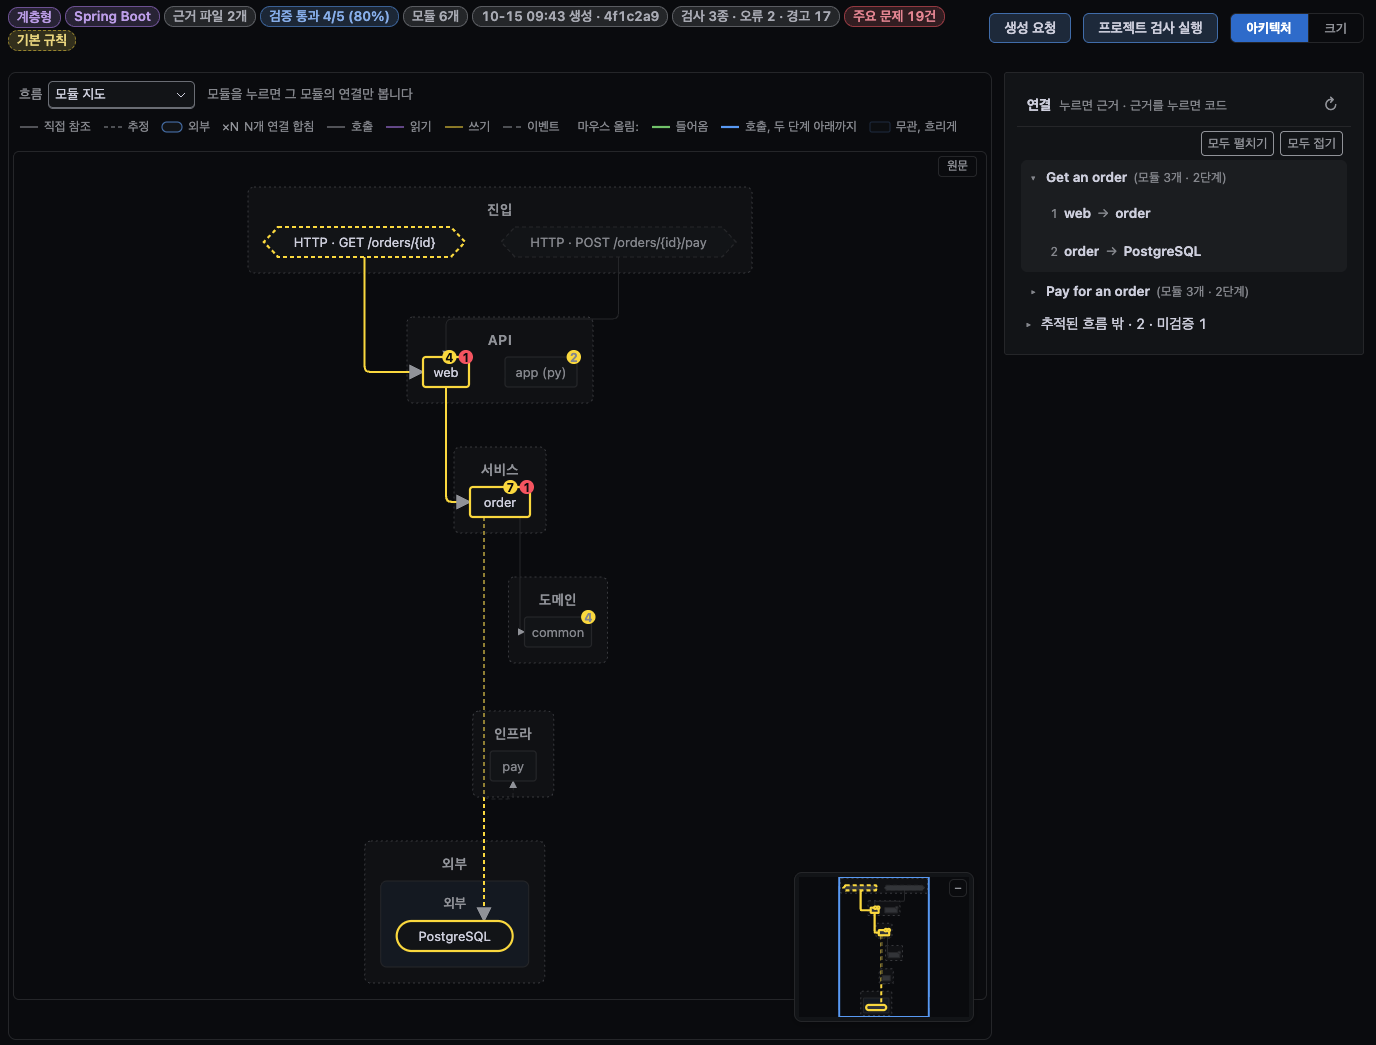
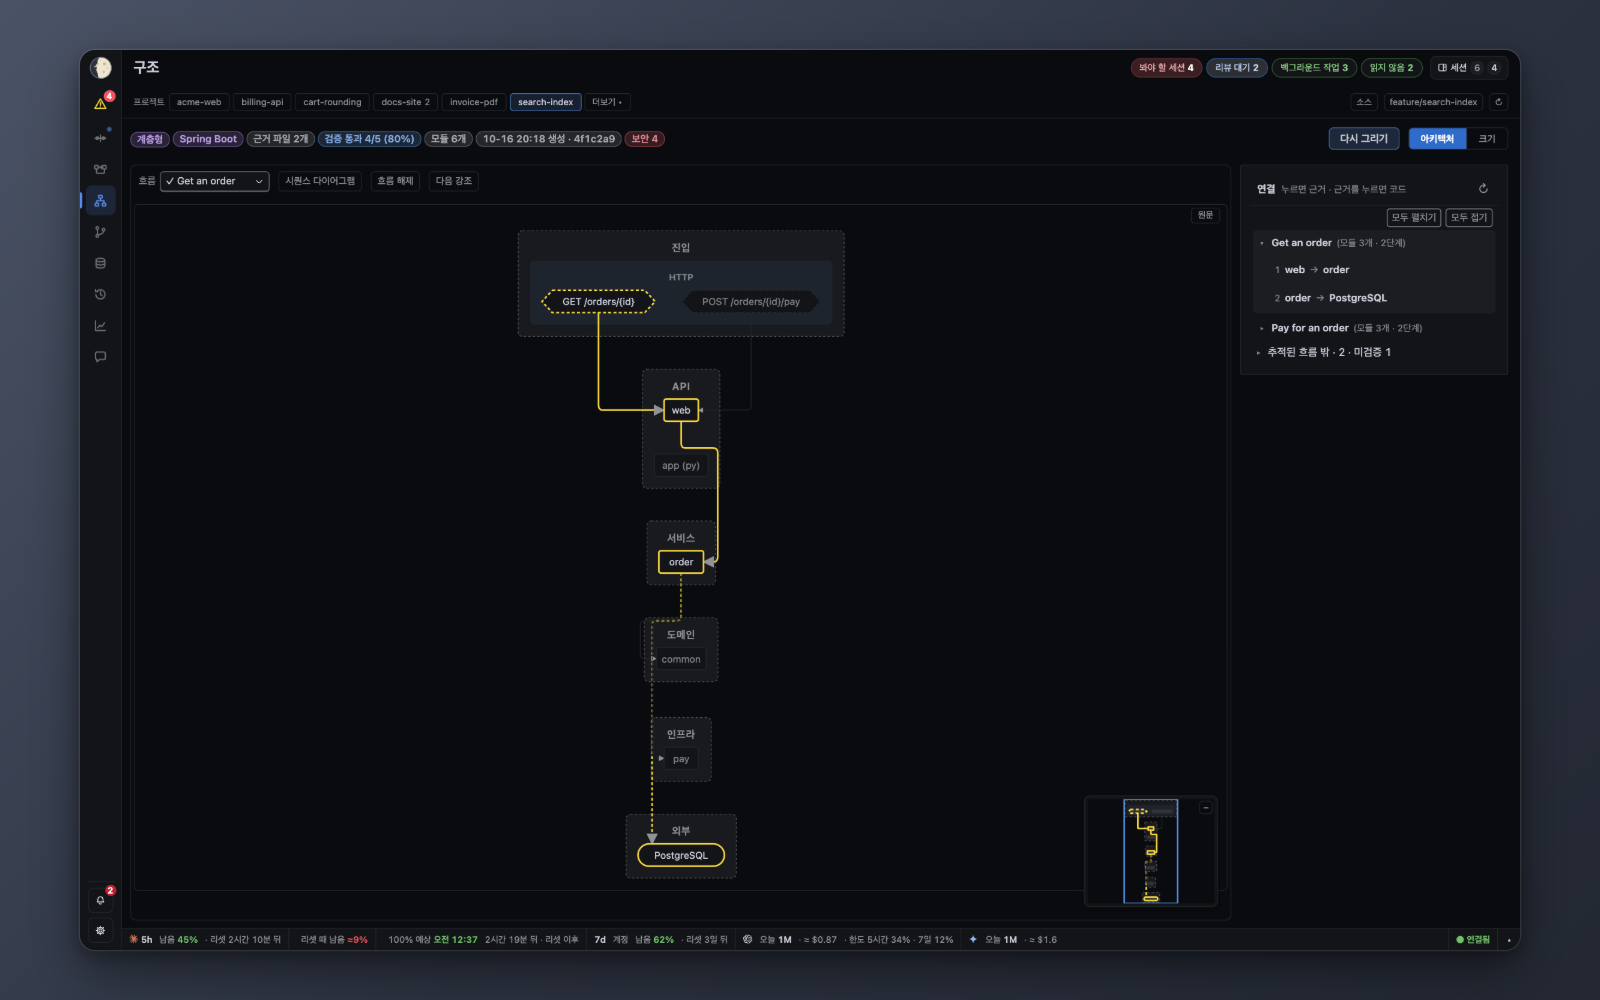
Shoot the architecture and flow images from the script; hero GIF without saver chip
readme_shots.mjs gains structure-arch (Get an order lit end to end, flow
unfolded in the side list, minimap; zoom 0.62 so the ~920px layered map fits)
and structure-flow (Pay for an order sequence diagram). Both drop the removed
lint button and checks badges. The unreferenced structure and pipelines shots
and their PNGs are removed.

The saverView/saverViews blanking moves into readme_cdp.mjs openApp, so
readme_gif.mjs shares it; hero-{en,ko}.gif is regenerated without the chip.

Claude-Session: https://claude.ai/code/session_01MxebWeSyRGi1H6Uy4AA5wg

diff --git a/scripts/README.md b/scripts/README.md
@@ -5,7 +5,7 @@
 - Every run appends one JSON line to `$SIDEREUS_EVIDENCE` (default `$MAILBOX_DIR/evidence.jsonl`) via `evidence_rec.py`: mode, repo, HEAD, dirty, rc, per-step `{name,rc,n,failed,secs}`, screen `{w,lang,ok,diff}` on `--full`. Counts only — no log lines, file or test names. Keeps the last 200 once past 400 lines; a recorder error never changes the gate result.
 - `leakscan.py` — scans shipped files (`git ls-files` minus `.distignore`) for your git user.name / user.email / login, real home paths, session UUIDs (outside `tests/`, demo data) and secrets. Skip a line with `leakscan: allow`.
 - `fmt_probe.py [--n N] [--json]` — upstream record-format probe: runs Sidereus's own parsers over the N newest real Claude Code / Codex / Gemini session files and names any field that came out empty on all of them (exit 1). A platform with no files is «skip». Run after a CLI upgrade. ⚠Reads live files — never from `check.sh`/`tests/run.sh`; `tests/test_fmt_probe.py` covers it with fixtures.
-- `readme_shots.mjs [name…]` — regenerates `docs/images/<name>-{en,ko}.png` (README/GUIDE) from its own `--demo` server and headless Chrome; 1200×750 app view at 2x, framed to 1600×1000. Blanks `saverView`/`saverViews` in `/api/state` (the saver hook is not shipped, so users never see that chip). Never touches the live viewer.
-- `readme_gif.mjs [--frames DIR]` — animated README hero `docs/images/hero-{en,ko}.gif` (Pipelines view, change-flow stages lighting in turn; 1120×700, ~10s loop, ~400KB) with the same isolation; `--frames` writes three sample frames as PNG. Shared demo/Chrome/CDP helpers: `readme_cdp.mjs`.
+- `readme_shots.mjs [name…]` — regenerates `docs/images/<name>-{en,ko}.png` (README/GUIDE) from its own `--demo` server and headless Chrome; 1200×750 app view at 2x, framed to 1600×1000. Never touches the live viewer.
+- `readme_gif.mjs [--frames DIR]` — animated README hero `docs/images/hero-{en,ko}.gif` (Pipelines view, change-flow stages lighting in turn; 1120×700, ~10s loop, ~400KB) with the same isolation; `--frames` writes three sample frames as PNG. Shared demo/Chrome/CDP helpers: `readme_cdp.mjs` — it also blanks `saverView`/`saverViews` in `/api/state` for both (the saver hook is not shipped, so users never see that chip).
 - `room_log.py <room> [--since <ISO|ns>] [--from-doc <path> | --doc-dir <dir>] [--bus <path>]` — one mailbox room's messages, oldest first (header line + time · sender · id · `[D]` decision tag · text); `--from-doc` (or `--doc-dir` = `<dir>/<slug>.md`) cuts at that room's last `room-minutes` marker. Input of the `room-minutes` skill; prints message text to the terminal only.
 - `install-hooks.sh` — sets `core.hooksPath=.githooks` once; `.githooks/pre-commit` then runs `check.sh --fast` and blocks the commit on FAIL (`--no-verify` to bypass).
